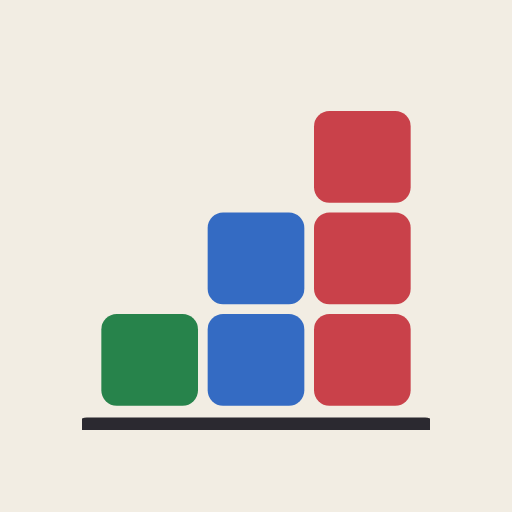
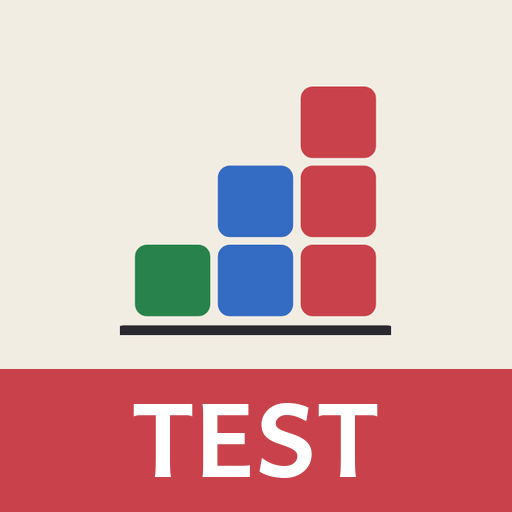
Testversion aus entwicklung: mehr Sätze, eigenes Symbol
Claude-Session: https://claude.ai/code/session_01EfzymyQCgsgUWMXT4Bz7sH

diff --git a/index.html b/index.html
@@ -8,8 +8,8 @@
 <meta charset="utf-8">
 <meta name="viewport" content="width=device-width,initial-scale=1">
 <meta name="theme-color" content="#f2ede3">
-<title>Stufenweise</title>
-<meta name="apple-mobile-web-app-title" content="Stufenweise">
+<title>Stufenweise – Testversion</title>
+<meta name="apple-mobile-web-app-title" content="SW Test">
 <meta name="apple-mobile-web-app-capable" content="yes">
 <meta name="mobile-web-app-capable" content="yes">
 <meta name="theme-color" content="#f2ede3">
@@ -5307,7 +5307,8 @@ function ownReadItem(kind){
 const READ = {
   LX: [() => ownReadItem('same'), () => ownReadItem('caps'), () => ownReadItem('pic'), () => ownReadItem('gap')],
   /* Schüttelsätze (Stefan 24.11.): Wortkarten zu einem Satz ordnen – nur Üben, kein Test */
-  LS: [() => shakeFact(), () => shakeBank('kurz'), () => shakeBank('kurz'), () => shakeBank('mittel')],
+  LS: [() => shakeFact(), () => shakeBank('kurz'), () => shakeBank('kurz'), () => shakeBank('mittel'), () => shakeBank('mittel'),
+       () => shakeBank((app.round?.res?.length || 0) >= 5 ? 'lang' : 'mittel')],  // lange Sätze erst in der zweiten Hälfte der Runde
   L1: [() => pictoItem(true), () => pictoItem(false), () => pictoItem(false)],
   L2: [() => signEasy(true), () => signEasy(false), () => signHard()],
   L3: [() => anlautItem(true), () => anlautItem(false), () => caseItem()],
@@ -8429,6 +8430,9 @@ function sentVariants(words){
    („Anfangs- und Endzeichen“); richtig sind nur Umstellungen im Satz. Verglichen wird die gelegte Reihe der Karten, wie sie sind. */
 const SATZ_ALT = {
   'Morgen früh fahren wir mit dem Zug in die Stadt.': ['Morgen fahren wir früh mit dem Zug in die Stadt.'],
+  'Wir kaufen für das Frühstück Milch und Brötchen ein.': ['Wir kaufen Milch und Brötchen für das Frühstück ein.'],
+  'Mia fährt am Nachmittag mit dem Fahrrad zum Sport.': ['Mia fährt mit dem Fahrrad am Nachmittag zum Sport.'],
+  'Tom gießt jeden Morgen die Blumen im Klassenzimmer.': ['Tom gießt die Blumen jeden Morgen im Klassenzimmer.'],
 };
 /* Passt die gelegte Reihenfolge zu einer richtigen Fassung? Gibt sie zurück (oder null). */
 function sentMatch(words, order, alt){
@@ -8439,13 +8443,124 @@ function sentMatch(words, order, alt){
 }
 const sentOk = (words, order, alt) => !!sentMatch(words, order, alt);
 const SATZ_BANK = {
-  kurz: ['Der Bus ist gelb.', 'Ich trinke Milch.', 'Lea hat Hunger.', 'Tom kauft Brot.', 'Die Lampe ist an.', 'Wir kochen Nudeln.', 'Das Handy klingelt.', 'Der Hund bellt.', 'Ich habe Pause.', 'Mia putzt den Tisch.', 'Die Sonne scheint.', 'Ben holt den Besen.', 'Es regnet heute.', 'Der Zug kommt.', 'Ich mag Pizza.'],
-  mittel: ['Die Tasse steht auf dem Tisch.', 'Tom malt mit dem Pinsel.', 'Lea kauft eine Banane.', 'Ich fahre mit dem Bus.', 'Der Hammer liegt in der Kiste.', 'Wir schneiden die Tomate klein.', 'Mia legt den Löffel weg.', 'Der Schlüssel ist in der Jacke.', 'Ben trägt eine rote Mütze.', 'Die Katze schläft auf dem Sofa.', 'Ich spüle den Teller ab.', 'Am Montag gehen wir einkaufen.', 'Die Säge hängt an der Wand.', 'Lea zahlt an der Kasse.'],
-  lang: ['Nach der Schule fahre ich mit dem Bus nach Hause.', 'In der Küche schneiden wir Gurke und Tomate.', 'Tom holt die Zange aus der Kiste in der Werkstatt.', 'Am Freitag kaufen wir Milch, Brot und Käse.', 'Mia stellt die Tassen und die Teller in den Schrank.', 'Wenn es regnet, nehme ich eine Jacke mit.', 'Ben wäscht seine Hände mit Wasser und Seife.', 'Morgen früh fahren wir mit dem Zug in die Stadt.']
+  kurz: [
+    'Der Bus ist gelb.',
+    'Ich trinke Milch.',
+    'Lea hat Hunger.',
+    'Tom kauft Brot.',
+    'Die Lampe ist an.',
+    'Wir kochen Nudeln.',
+    'Das Handy klingelt.',
+    'Der Hund bellt.',
+    'Ich habe Pause.',
+    'Mia putzt den Tisch.',
+    'Die Sonne scheint.',
+    'Ben holt den Besen.',
+    'Es regnet heute.',
+    'Der Zug kommt.',
+    'Ich mag Pizza.',
+    'Ben spielt Fußball.',
+    'Lea malt ein Bild.',
+    'Der Hund ist müde.',
+    'Wir singen ein Lied.',
+    'Tom liest ein Buch.',
+    'Die Tür ist offen.',
+    'Mia hat einen Ball.',
+    'Ich wasche die Hände.',
+    'Das Wasser ist kalt.',
+    'Der Kaffee ist heiß.',
+    'Ben isst einen Apfel.',
+    'Die Uhr tickt.',
+    'Wir haben Sport.',
+    'Lea trinkt Tee.',
+    'Das Auto ist rot.',
+    'Tom macht Pause.',
+    'Ich räume auf.',
+    'Die Katze miaut.',
+    'Mia lacht laut.',
+    'Der Teller ist leer.',
+    'Wir spielen Karten.',
+    'Ben schneidet Brot.',
+    'Das Licht ist aus.',
+    'Ich bin müde.',
+    'Lea fegt den Boden.'],
+  mittel: [
+    'Die Tasse steht auf dem Tisch.',
+    'Tom malt mit dem Pinsel.',
+    'Lea kauft eine Banane.',
+    'Ich fahre mit dem Bus.',
+    'Der Hammer liegt in der Kiste.',
+    'Wir schneiden die Tomate klein.',
+    'Mia legt den Löffel weg.',
+    'Der Schlüssel ist in der Jacke.',
+    'Ben trägt eine rote Mütze.',
+    'Die Katze schläft auf dem Sofa.',
+    'Ich spüle den Teller ab.',
+    'Am Montag gehen wir einkaufen.',
+    'Die Säge hängt an der Wand.',
+    'Lea zahlt an der Kasse.',
+    'Tom stellt die Milch in den Kühlschrank.',
+    'Lea spült das Glas in der Küche.',
+    'Ich lege das Heft auf den Tisch.',
+    'Mia gießt die Blumen am Fenster.',
+    'Der Bus fährt zum Bahnhof.',
+    'Ben kocht Wasser für den Tee.',
+    'Wir essen in der Pause einen Apfel.',
+    'Die Schere liegt in der Schublade.',
+    'Tom zieht seine Jacke an.',
+    'Lea hängt das Bild an die Wand.',
+    'Ich packe meine Tasche.',
+    'Mia holt Brot beim Bäcker.',
+    'Der Hund wartet vor der Tür.',
+    'Wir spielen im Hof Fußball.',
+    'Ben bringt den Müll weg.',
+    'Die Lehrerin schreibt an die Tafel.',
+    'Tom sägt das Holz in der Werkstatt.',
+    'Lea kauft im Laden Milch.',
+    'Ich putze mir die Zähne.',
+    'Wir fahren mit dem Rad zur Schule.',
+    'Der Ball liegt unter dem Tisch.',
+    'Mia schreibt ihren Namen auf das Blatt.',
+    'Ben deckt den Tisch für das Essen.',
+    'Die Sonne scheint am Morgen.',
+    'Ich höre Musik mit dem Handy.',
+    'Tom sucht seinen Schlüssel.'],
+  lang: [
+    'Nach der Schule fahre ich mit dem Bus nach Hause.',
+    'In der Küche schneiden wir Gurke und Tomate.',
+    'Tom holt die Zange aus der Kiste in der Werkstatt.',
+    'Am Freitag kaufen wir Milch, Brot und Käse.',
+    'Mia stellt die Tassen und die Teller in den Schrank.',
+    'Wenn es regnet, nehme ich eine Jacke mit.',
+    'Ben wäscht seine Hände mit Wasser und Seife.',
+    'Morgen früh fahren wir mit dem Zug in die Stadt.',
+    'Am Morgen fahre ich mit dem Bus zur Schule.',
+    'Nach dem Essen spülen wir die Teller und die Gläser.',
+    'Lea kauft im Laden Brot, Butter und Eier.',
+    'Tom bohrt in der Werkstatt ein Loch in das Brett.',
+    'In der Pause spielen wir im Hof mit dem Ball.',
+    'Mia legt die Stifte und die Hefte in den Schrank.',
+    'Wenn es kalt ist, ziehe ich eine Mütze auf.',
+    'Ben wäscht die Gurke und schneidet sie in Scheiben.',
+    'Am Wochenende besuche ich mit Mama die Oma.',
+    'Heute backen wir in der Küche einen Kuchen.',
+    'Der Hausmeister repariert mit dem Hammer den Stuhl.',
+    'Nach der Arbeit trinkt Lea eine Tasse Tee.',
+    'Im Sommer gehen wir mit der Klasse ins Schwimmbad.',
+    'Tom gießt jeden Morgen die Blumen im Klassenzimmer.',
+    'Wir kaufen für das Frühstück Milch und Brötchen ein.',
+    'Mia fährt am Nachmittag mit dem Fahrrad zum Sport.',
+    'Bevor wir essen, waschen wir uns die Hände.'],
 };
 app.ts = {text:'', words:[], tiles:[], order:[], len:'kurz', own:false, last:''};
 function tsSet(t){ const T = app.ts; T.text = String(t || '').trim() || T.text; T.words = T.text.split(/\s+/).filter(Boolean); T.tiles = shuffle(T.words.map((_, i) => i)); if(T.words.length > 1 && T.tiles.every((v, i) => v === i)) T.tiles.reverse(); T.order = []; }
-function tsGen(){ const T = app.ts, bank = SATZ_BANK[T.len] || SATZ_BANK.kurz; let t; do t = pick(bank); while(bank.length > 1 && t === T.last); T.last = t; tsSet(t); }
+/* Erst kommen alle Sätze einer Länge einmal dran (gemischt), dann wieder von vorn – ohne den letzten Satz gleich zu wiederholen. */
+function tsGen(){
+  const T = app.ts, len = SATZ_BANK[T.len] ? T.len : 'kurz', bank = SATZ_BANK[len];
+  T.queue ||= {};
+  if(!T.queue[len]?.length){ const q = shuffle(bank.slice()); if(q.length > 1 && q[q.length - 1] === T.last) q.unshift(q.pop()); T.queue[len] = q; }
+  const t = T.queue[len].pop(); T.last = t; tsSet(t);
+}
 function renderTsatz(){
   const T = app.ts; if(!T.words.length) tsGen();
   $('#equation').innerHTML = ''; $('#prompt').textContent = 'Tippe die Wörter der Reihe nach an. Gelegte Wörter kannst du verschieben.'; setHint('');
@@ -10722,7 +10837,7 @@ document.addEventListener('change', e => { const c = e.target.closest('[data-sub
 document.addEventListener('change', e => { const s = e.target.closest('[data-guide-pid]'); if(!s) return; const p = data.profiles.find(x => x.id === s.dataset.guidePid); if(p){ p.guide = s.value || undefined; saveData(); render(); } });
 
 /* ---------- Rückmeldung (Testphase): Art, Schwere, Text + automatischer Kontext → E-Mail ---------- */
-const APP_VERSION = '0.37.0 · Testversion 2b7a216 · 25.11.2026';
+const APP_VERSION = '0.37.0 · Testversion f23f236 · 25.11.2026';
 /* Danke-Seite: Namen nur mit Einverständnis eintragen, z. B. 'Vorname Nachname (Schule)' */
 const THANKS = [];
 const FB_REPO = 'https://github.com/Steffinuss/stufenweise';

diff --git a/tests/test_icons.py b/tests/test_icons.py
@@ -1,0 +1,41 @@
+"""Eigenes Symbol für die Testversion (Stefan, 25.11.2026): das normale Symbol mit rotem Band „TEST“ unten.
+Wird von tests/testversion.sh aufgerufen: python3 tests/test_icons.py <Ordner der Testversion>
+Ändert dort apple-touch-icon.png, icon-192.png, icon-512.png."""
+import os, sys
+from PIL import Image, ImageDraw, ImageFont
+
+HIER = os.path.dirname(os.path.abspath(__file__))
+SCHRIFTEN = [os.path.join(HIER, '..', 'fonts', 'Stufenfibel-Bold.woff'),
+             '/usr/share/fonts/truetype/dejavu/DejaVuSans-Bold.ttf']
+
+
+def schrift(px):
+    for f in SCHRIFTEN:
+        try:
+            return ImageFont.truetype(f, px)
+        except Exception:
+            pass
+    return ImageFont.load_default()
+
+
+def markieren(pfad):
+    alt = Image.open(pfad).convert('RGBA'); w, h = alt.size
+    band = int(h * 0.28)
+    # Symbol verkleinert darüber, damit das Band nichts verdeckt
+    im = Image.new('RGBA', (w, h), alt.getpixel((2, 2)))
+    k = int(h * 0.78); klein = alt.resize((k, k), Image.LANCZOS)
+    im.paste(klein, ((w - k) // 2, int(h * 0.0)), klein)
+    d = ImageDraw.Draw(im)
+    d.rectangle([0, h - band, w, h], fill=(201, 65, 74, 255))   # Rot der App (#c9414a)
+    f = schrift(int(band * 0.72)); t = 'TEST'
+    l, o, r, u = d.textbbox((0, 0), t, font=f)
+    d.text(((w - (r - l)) / 2 - l, h - band + (band - (u - o)) / 2 - o), t, font=f, fill='white')
+    im.save(pfad)
+
+
+if __name__ == '__main__':
+    ziel = sys.argv[1]
+    for n in ['apple-touch-icon.png', 'icon-192.png', 'icon-512.png']:
+        p = os.path.join(ziel, n)
+        if os.path.exists(p):
+            markieren(p)

diff --git a/tests/tafel_rueckmeldung.py b/tests/tafel_rueckmeldung.py
@@ -47,6 +47,12 @@ async def main():
         r = await pg.evaluate("(()=>{ const it = shakeFact(); const w = [cap(it.words[it.words.length-1].replace('.','')), 'ist', it.words[0].toLowerCase(), it.words[1] + '.'], used = new Set(); const o = w.map(g => { const i = it.words.findIndex((x, k) => x.toLowerCase().replace(/[.,]/g,'') === g.toLowerCase().replace(/[.,]/g,'') && !used.has(k)); used.add(i); return i; }); return evalWrite(it, {order:o}).ok; })()")
         chk('Bildsatz: Anfang und Punkt bleiben („Gelb ist die Banane.“ zählt nicht)', r is False)
 
+        # Tafel: erst alle Sätze einer Länge, dann wieder von vorn
+        r = await pg.evaluate("""(()=>{ const T = app.ts, seen = []; T.len = 'lang'; T.queue = {}; const n = SATZ_BANK.lang.length;
+          for(let k = 0; k < n; k++){ tsGen(); seen.push(T.words.join(' ')); } const all = new Set(seen).size === n;
+          tsGen(); const next = T.words.join(' '); return [all, next !== seen[n - 1], SATZ_BANK.kurz.length, SATZ_BANK.mittel.length, n]; })()""")
+        chk('Tafel: jeder Satz einmal, bevor einer wiederkommt', r[0] is True and r[1] is True, str(r))
+        chk('mehr Sätze (40/40/25)', r[2:] == [40, 40, 25], str(r[2:]))
         # Satz-Baukasten an der Tafel
         r = await pg.evaluate("""(()=>{ tsSet('Mia stellt die Tassen und die Teller in den Schrank.'); const T = app.ts;
           const want = 'Mia stellt die Teller und die Tassen in den Schrank.'.split(' '), used = new Set();

diff --git a/docs/entwicklung.md b/docs/entwicklung.md
@@ -11,7 +11,7 @@ Seit dem 17.11.2026 ist der Funktionsumfang eingefroren: Die App wird an Schulen
 
 - **Fehler beheben:** in `main` ändern, testen, Version erhöhen, veröffentlichen. Danach `main` in `entwicklung` zusammenführen, damit beide Zweige gleich bleiben.
 - **Neue Funktion:** in `entwicklung` bauen und testen. Dann denselben Stand in das Repository `stufenweise-test` übertragen: `sh tests/testversion.sh /pfad/zu/stufenweise-test`, danach dort committen und pushen. Das Skript ersetzt alle Dateien durch den Stand von `entwicklung`; die Geschichte bleibt im Haupt-Repository. Im Test-Repository wird nie direkt gearbeitet; es ist nur das Schaufenster.
-- **Freigabe:** Wenn Stefan die Testversion ausprobiert hat und einverstanden ist, wird `entwicklung` in `main` zusammengeführt. Das ist die nächste Nebenversion (z. B. 0.29.0). Freigegebene Stände bekommen in GitHub ein Release (`v0.29.0`). Das geschieht automatisch: Sobald eine neue Version in `version.json` auf `main` ankommt, legt `.github/workflows/release.yml` das Release `v…` an, mit allen Abschnitten aus `CHANGELOG.md` seit dem letzten Release (`.github/scripts/release_notes.py`). Den Text kann man danach auf der Releases-Seite noch ändern. Die Testversion bekommt den Ordner `.github` nicht.
+- **Freigabe:** Wenn Stefan die Testversion ausprobiert hat und einverstanden ist, wird `entwicklung` in `main` zusammengeführt. Das ist die nächste Nebenversion (z. B. 0.29.0). Freigegebene Stände bekommen in GitHub ein Release (`v0.29.0`). Das geschieht automatisch: Sobald eine neue Version in `version.json` auf `main` ankommt, legt `.github/workflows/release.yml` das Release `v…` an, mit allen Abschnitten aus `CHANGELOG.md` seit dem letzten Release (`.github/scripts/release_notes.py`). Den Text kann man danach auf der Releases-Seite noch ändern. Die Testversion bekommt den Ordner `.github` nicht. Auf dem Home-Bildschirm hat die Testversion ein eigenes Symbol mit rotem Band „TEST“ und den Namen „SW Test“ (`tests/test_icons.py`).
 - **Mitarbeit von außen** (z. B. Sachunterricht): eigener Zweig oder Fork, Änderungen als Pull Request an `entwicklung`.
 
 ## Testversion und Daten

diff --git a/CHANGELOG.md b/CHANGELOG.md
@@ -5,7 +5,8 @@ Versionen: Hauptversion.Nebenversion.Korrektur (Korrektur = Fehlerbehebung, Nebe
 
 ## Unveröffentlicht (Zweig `entwicklung`, Testversion)
 
-- noch nichts
+- **Mehr Sätze zum Legen:** 105 statt 37 (kurz 40, mittel 40, lang 25), Alltag aus Schule, Küche, Werkstatt, Einkaufen, Weg und Freizeit; erlaubte Umstellungen im Satz geprüft (`SATZ_ALT`). An der Tafel kommt jeder Satz einer Länge einmal dran, bevor sich einer wiederholt (`tsGen` mit Warteschlange). Schüttelsätze: in der zweiten Hälfte einer Runde auch lange Sätze (Wunsch Stefan, 25.11.2026).
+- **Testversion mit eigenem Symbol und Namen** auf dem Home-Bildschirm: rotes Band „TEST“, Name „SW Test“ (`tests/test_icons.py`, von `tests/testversion.sh` aufgerufen; die richtige App bleibt unverändert).
 
 ## 0.36.1 – 25.11.2026
 

diff --git a/IN_PROGRESS.md b/IN_PROGRESS.md
@@ -5,4 +5,5 @@ Arbeitsweise mit zwei Zweigen: `docs/entwicklung.md`.
 
 Stand: 25.11.2026
 
-Gerade nichts in Arbeit. „Zahl zeigen“, Sätze legen mit Ziehen und weitere Wortstellungen, Stift beim Frei legen sind mit 0.36.0 freigegeben (siehe `CHANGELOG.md`).
+- **Mehr Sätze, Warteschlange an der Tafel, lange Schüttelsätze** (Stefan, 25.11.): in `entwicklung` gebaut, wartet auf Freigabe.
+- **Testversion mit eigenem Symbol** (Stefan, 25.11.): nur `tests/testversion.sh`/`tests/test_icons.py`, wirkt sofort in der Testversion.

diff --git a/README.md b/README.md
@@ -1,4 +1,4 @@
-> **Testversion von Stufenweise** – Stand aus [Steffinuss/stufenweise](https://github.com/Steffinuss/stufenweise), Zweig `entwicklung` (2b7a216). Nicht für den Unterricht. Hier nicht direkt arbeiten.
+> **Testversion von Stufenweise** – Stand aus [Steffinuss/stufenweise](https://github.com/Steffinuss/stufenweise), Zweig `entwicklung` (f23f236). Nicht für den Unterricht. Hier nicht direkt arbeiten.
 
 # Stufenweise
 
